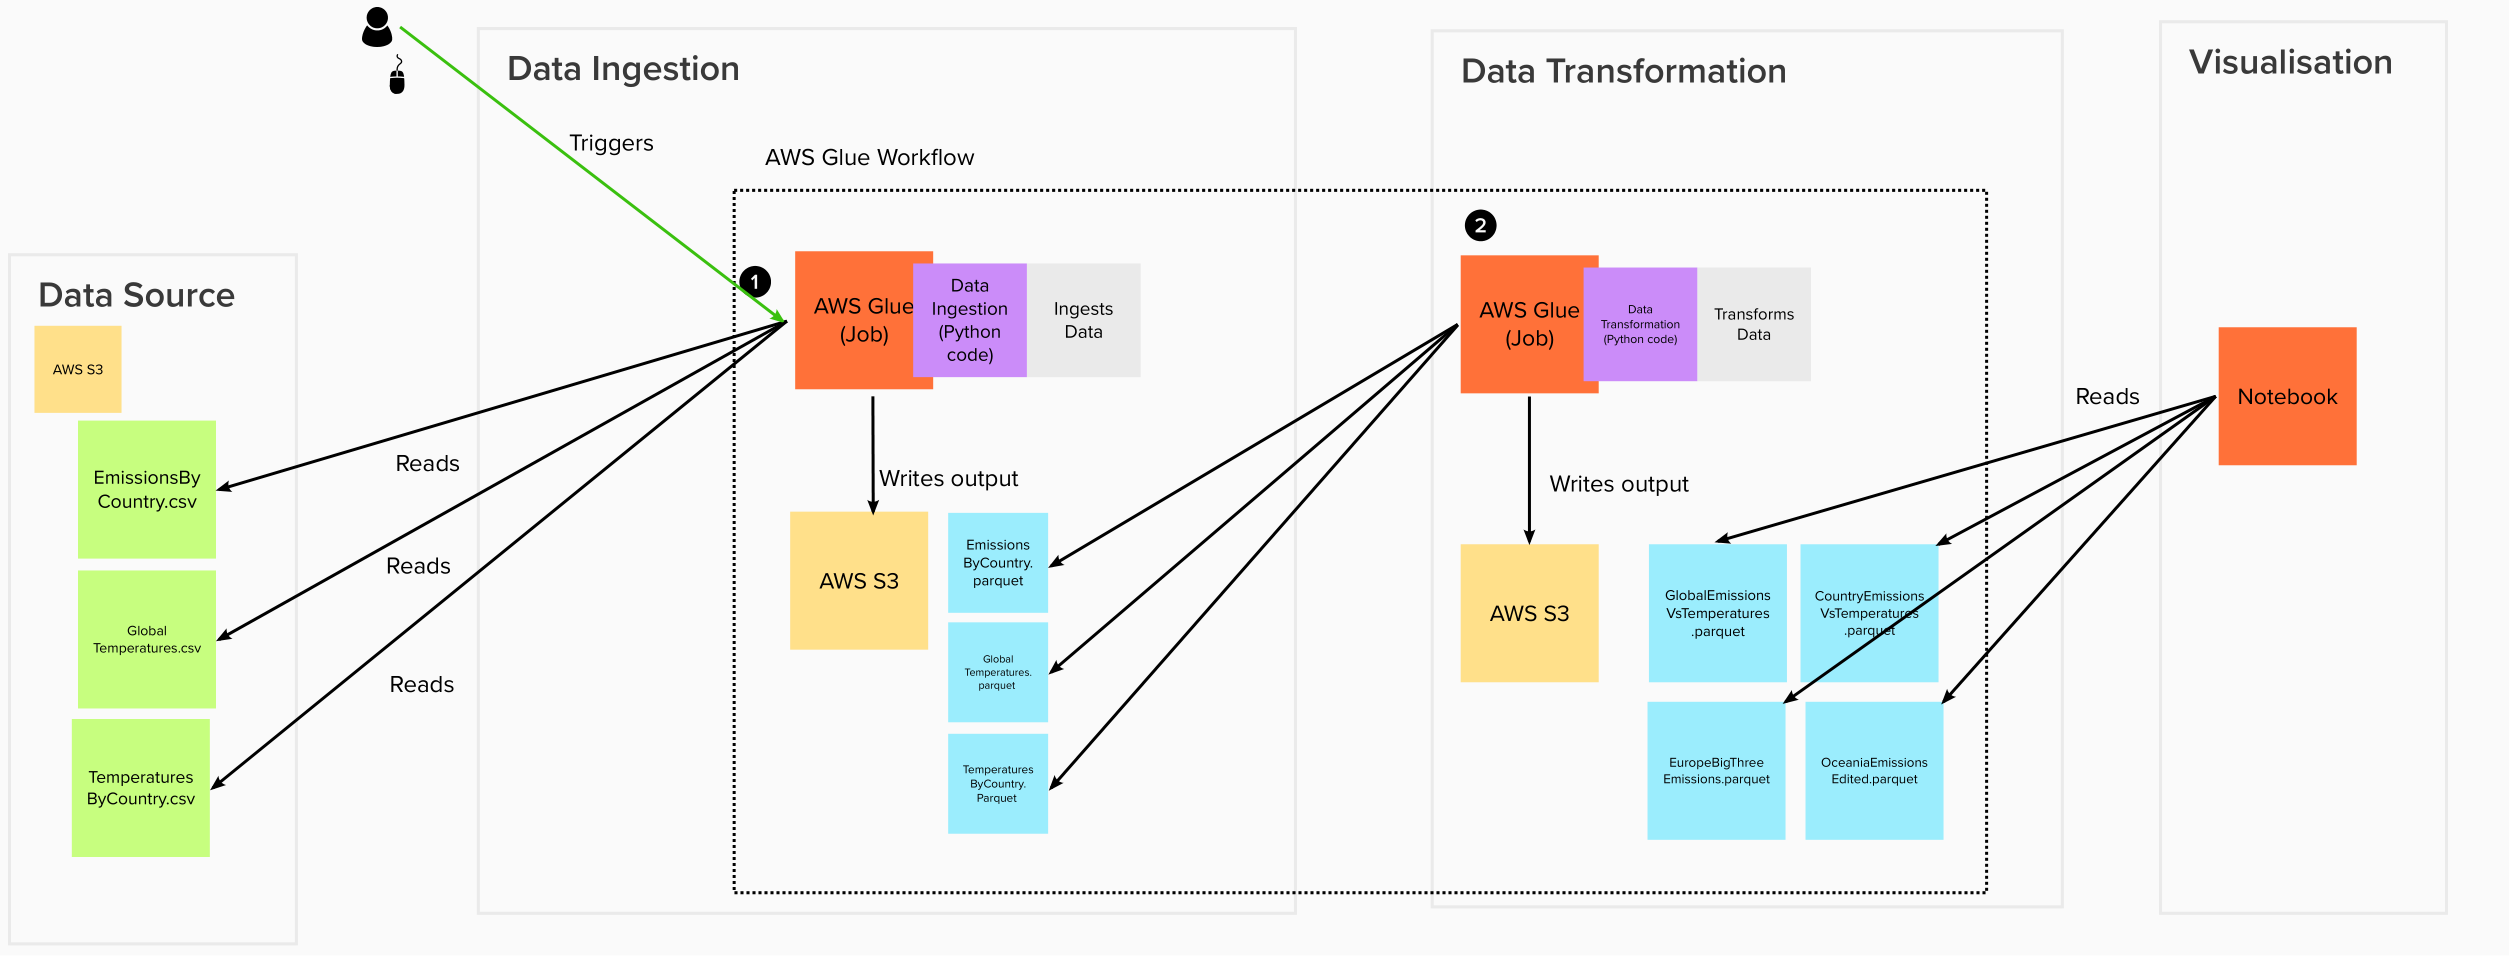
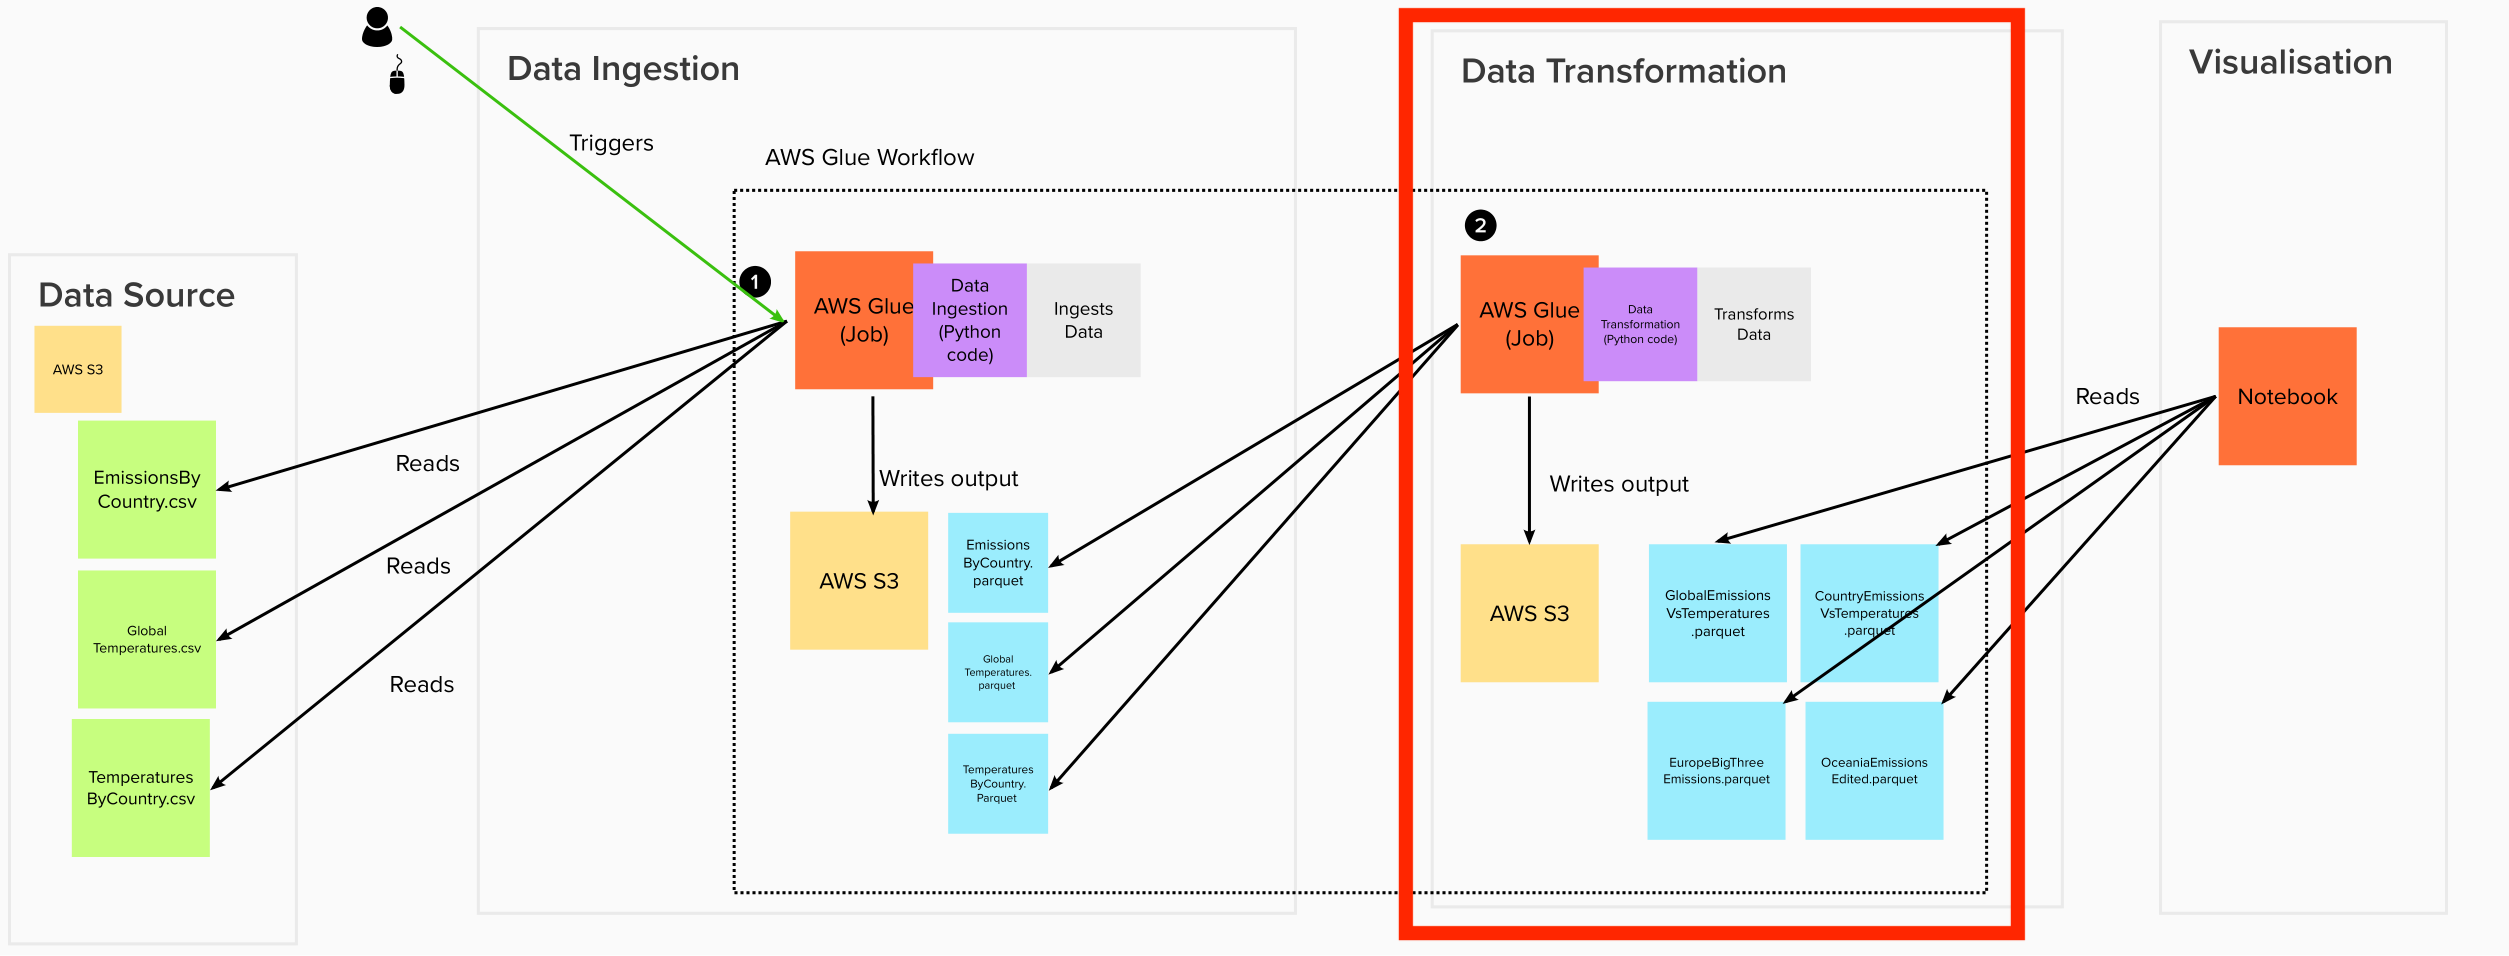
km: adjusting ingestion/transformation exercises

Changed region(s): [[0.5596, 0.0, 0.8083, 1.0]]

diff --git a/docs/data-transformation/exercise-infra-as-code.md b/docs/data-transformation/exercise-infra-as-code.md
@@ -1,0 +1,14 @@
+---
+sidebar_position: 50
+---
+# Infrastructure as Code
+![project-structure-transformation-navi.png](./assets/project-structure-transformation-navi.png)
+
+Creating resources in the AWS Console can be sometimes prone to mistakes, but we have [Infrastructure as Code](https://infrastructure-as-code.com/book/) to the rescue.
+
+The Terraform code to bring up our infrastructure for `data-transformation` can be found [here](https://github.com/data-derp/exercise-co2-vs-temperature-infrastructure/tree/master/iac/data-transformation) and `data-workflow` can be found [here](https://github.com/data-derp/exercise-co2-vs-temperature-infrastructure/tree/master/iac/data-workflow).
+
+1. Manually delete the resources you created by hand (for the `data-transformation` and `data-workflow` - don't delete the `data-ingestion` resources!) to prevent resource clashing.
+2. Follow [these instructions](https://github.com/data-derp/exercise-co2-vs-temperature-infrastructure/blob/master/infrastucture-as-code.md#data-transformation-iac) to use Terraform to create the `data-transformation` resources. 
+3. Follow [these instructions](https://github.com/data-derp/exercise-co2-vs-temperature-infrastructure/blob/master/infrastucture-as-code.md#data-transformation-iac) to use Terraform to create the `data-workflow` resources.
+4. [Destroy your resources](https://github.com/data-derp/exercise-co2-vs-temperature-infrastructure/blob/master/infrastucture-as-code.md#destroy-everything) when you're done!

diff --git a/docs/data-ingestion/exercise-overview.md b/docs/data-ingestion/exercise-overview.md
@@ -7,9 +7,9 @@ sidebar_position: 1
 
 The figure above represents our final state for this project, but the box in red highlights the salient steps for "Data Ingestion". At high level, we are concerned with ingesting our data from relevant data sources to a place where we can read and re-read over and over again without needing to repull the data from those sources. This makes it easier for us to debug and reprocess (and saves CO2 emissions from network calls).
 
-The onion breakdown:
+## The Onion Breakdown:
 1. **Data Ingestion Core Logic** will be demonstrated in an exercise in Databricks, which will accelerate our learning of the Spark API and general data handling
-2. Next, we will showcase what this same logic looks like in fully-TDD'ed **Data Ingestion Production Code**
-3. And then, we will **deploy that production code to the cloud**
-4. Lastly, we will demonstrate a codebase which joins assets resulting from (2) Production Code with **Infrastructure as Code**.
+2. Next, we will showcase what this same logic looks like in fully-TDD'ed **Production Code**
+3. And then, we will create AWS resources to **run the Production Code in an AWS Glue Job in the Cloud**
+4. Lastly, we will demonstrate how those manually-created AWS resources can be written as **Infrastructure as Code** to reduce mistakes and increase replicability.
 

diff --git a/docs/data-transformation/exercise-overview.md b/docs/data-transformation/exercise-overview.md
@@ -1,0 +1,15 @@
+---
+sidebar_position: 46
+---
+# Project Overview
+
+![project-structure-transformation-navi.png](./assets/project-structure-transformation-navi.png)
+
+The figure above represents our final state for this project, but the box in red highlights the salient steps for "Data Transformation". At high level, we are concerned with transforming (cleaning and reshaping) our ingested data into a shape that makes it easy to answer some questions in our analysis. Remember that some transformations are expensive, depending on the transformation and how much data that you have. These expensive transformations can leverage Spark (and its distributed architecture) for its speed.
+
+## The Onion Breakdown:
+1. **Data Transformation Core Logic** will be demonstrated in an exercise in Databricks, which will accelerate our learning of the Spark API and general data handling
+2. Next, we will showcase what this same logic looks like in fully-TDD'ed **Production Code**
+3. And then, we will create AWS resources to **run the Production Code in an AWS Glue Job in the Cloud**
+4. Lastly, we will demonstrate how those manually-created AWS resources can be written as **Infrastructure as Code** to reduce mistakes and increase replicability.
+

diff --git a/docs/data-ingestion/exercise-infra-as-code.md b/docs/data-ingestion/exercise-infra-as-code.md
@@ -6,8 +6,7 @@ sidebar_position: 5
 
 Creating resources in the AWS Console can be sometimes prone to mistakes, but we have [Infrastructure as Code](https://infrastructure-as-code.com/book/) to the rescue.
 
-The Terraform code to bring up our infrastructure can be found [here].
+The Terraform code to bring up our infrastructure can be found [here](https://github.com/data-derp/exercise-co2-vs-temperature-infrastructure/tree/master/iac/data-ingestion).
 
-**Optional:** Follow [these instructions](https://github.com/data-derp/exercise-co2-vs-temperature-infrastructure#infrastructure-as-code) to use Terraform to create these resources. 
-* You might need to manually delete the resources you created by hand to prevent resource clashing. 
-* Don't forget to destroy your resources when you're done!
+1. Manually delete the resources you created by hand (in the `data-ingestion` section) to prevent resource clashing.
+2. Follow [these instructions](https://github.com/data-derp/exercise-co2-vs-temperature-infrastructure/blob/master/infrastucture-as-code.md#data-transformation-iac) to use Terraform to create these resources. 

diff --git a/docs/data-transformation/exercise-production-code.md b/docs/data-transformation/exercise-production-code.md
@@ -1,0 +1,11 @@
+---
+sidebar_position: 48
+---
+# Production Code
+![project-structure-transformation-navi.png](./assets/project-structure-transformation-navi.png)
+
+Now that you've created the transformation logic in Databricks, let's see what that logic looks like in production code. You have already done most of the [setup](https://github.com/data-derp/exercise-co2-vs-temperature-production-code#quickstart) from the previous section on **Data Ingestion**. Let's continue the exercise for **Data Transformation**
+
+## Notes
+* Copy and paste the logic from the [previous Databricks exercise](https://github.com/data-derp/exercise-co2-vs-temperature-databricks#data-transformation)
+* HINT: If copy-pasting is too painful, there's a `solutions` branch to switch to

diff --git a/docs/data-ingestion/exercise-core-logic.md b/docs/data-ingestion/exercise-core-logic.md
@@ -4,4 +4,4 @@ sidebar_position: 2
 # Core Logic
 ![project-structure-ingestion-navi.png](./assets/project-structure-ingestion-navi.png)
 
-For this exercise, we will work in Databricks. [Follow these instructions](https://github.com/data-derp/exercise-co2-vs-temperature#data-ingestion) to get started.
+For this exercise, we will work in Databricks. We'll be using Databricks because we can provide a narrative of the logic and walk through the logic together. It also makes learning the Spark API super easy! [Follow these instructions](https://github.com/data-derp/exercise-co2-vs-temperature#data-ingestion) to get started.

diff --git a/docs/data-ingestion/exercise-create-infrastructure-in-the-cloud.md b/docs/data-ingestion/exercise-create-infrastructure-in-the-cloud.md
@@ -1,0 +1,9 @@
+---
+sidebar_position: 4
+---
+# Create Infrastructure in the Cloud
+![project-structure-ingestion-navi.png](./assets/project-structure-ingestion-navi.png)
+
+Now that we've created artifacts (`main.py`, `data_ingestion-0.1-py3.egg`) in our S3 bucket, our next step is to run that logic in AWS Glue. In this exercise, we'll learn how to create AWS Glue Jobs and Crawlers and how to view the resulting data in AWS Athena.
+
+Follow the instructions [here](https://github.com/data-derp/exercise-co2-vs-temperature-infrastructure/blob/master/data-ingestion.md) to get started.

diff --git a/docs/data-transformation/exercise-create-infrastructure-in-the-cloud.md b/docs/data-transformation/exercise-create-infrastructure-in-the-cloud.md
@@ -1,8 +1,8 @@
 ---
-sidebar_position: 4
+sidebar_position: 49
 ---
-# Deploy to the Cloud
-![project-structure-ingestion-navi.png](./assets/project-structure-ingestion-navi.png)
+# Create Infrastructure in the Cloud
+![project-structure-transformation-navi.png](./assets/project-structure-transformation-navi.png)
 
 Now that we've created artifacts (`main.py`, `data_ingestion-0.1-py3.egg`) in our S3 bucket, our next step is to run that logic in AWS Glue. In this exercise, we'll learn how to create AWS Glue Jobs and Crawlers and how to view the resulting data in AWS Athena.
 

diff --git a/docs/data-transformation/exercise-core-logic.md b/docs/data-transformation/exercise-core-logic.md
@@ -1,0 +1,7 @@
+---
+sidebar_position: 47
+---
+# Core Logic
+![project-structure-transformation-navi.png](./assets/project-structure-transformation-navi.png)
+
+For this exercise, we will work in Databricks. We'll be using Databricks because we can provide a narrative of the logic and walk through the logic together. It also makes learning the Spark API super easy! [Follow these instructions](https://github.com/data-derp/exercise-co2-vs-temperature#data-transformation) to get started.

diff --git a/docs/data-ingestion/exercise-production-code.md b/docs/data-ingestion/exercise-production-code.md
@@ -8,4 +8,4 @@ Now that you've created the ingestion logic in Databricks, let's see what that l
 
 ## Notes
 * Copy and paste the logic from the [previous Databricks exercise](https://github.com/data-derp/exercise-co2-vs-temperature-databricks#data-ingestion)
-  * HINT: If this is too painful, there's a `solutions` branch to switch to
+* HINT: If copy-pasting is too painful, there's a `solutions` branch to switch to
